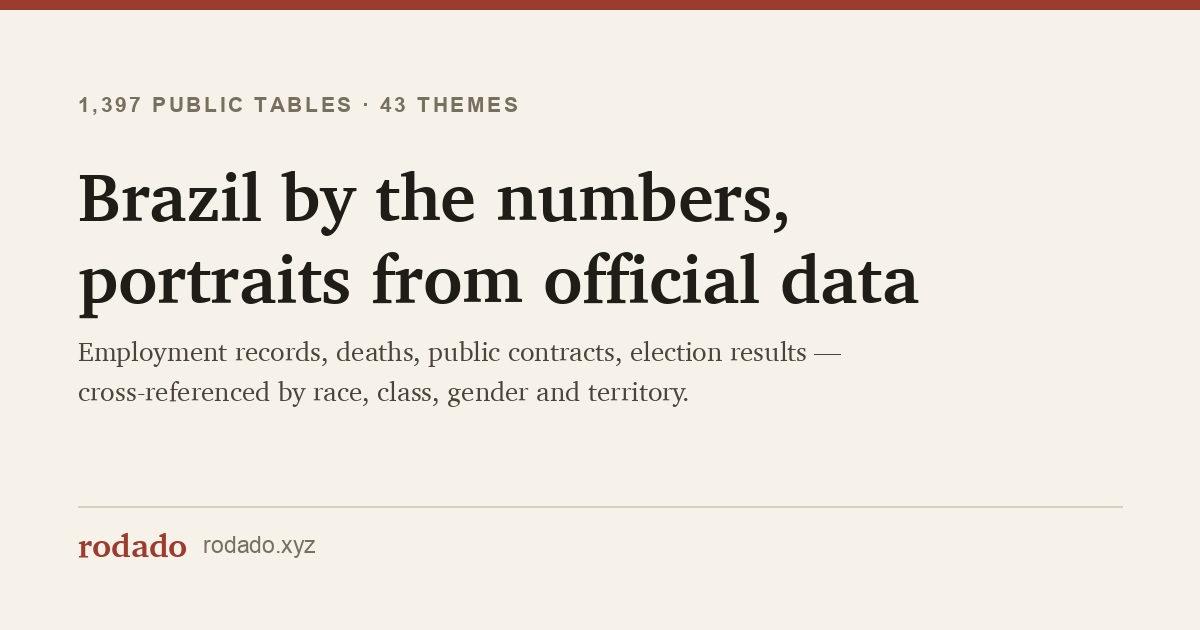
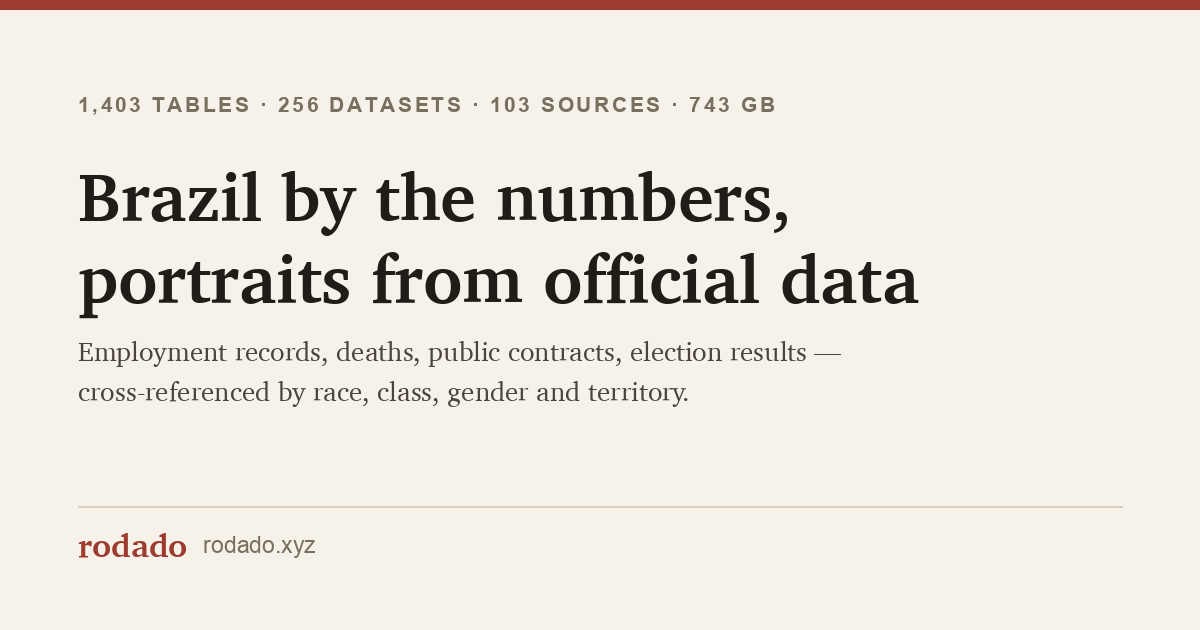
docs: contagens do espelho para 1.403 tabelas, 256 datasets, 103 fontes e 743 GB

Changed region(s): [[0.0617, 0.1508, 0.6475, 0.181]]

diff --git a/pages/index.html b/pages/index.html
@@ -4,7 +4,7 @@
 <meta charset="utf-8">
 <meta name="viewport" content="width=device-width, initial-scale=1">
 <title>rodado — Brasil em números, retratos dos dados oficiais</title>
-<meta name="description" content="1.397 tabelas de dados oficiais brasileiros cruzadas em 43 investigações sobre desigualdade, poder, economia, saúde e violência — o retrato que o Estado já tem de si mesmo.">
+<meta name="description" content="1.403 tabelas de dados oficiais brasileiros cruzadas em 43 investigações sobre desigualdade, poder, economia, saúde e violência — o retrato que o Estado já tem de si mesmo.">
 <!-- seo:start (gerado por scripts/gera_seo.py — não editar à mão) -->
 <link rel="canonical" href="https://rodado.xyz/">
 <link rel="alternate" hreflang="pt-br" href="https://rodado.xyz/">
@@ -15,14 +15,14 @@
 <meta property="og:locale" content="pt_BR">
 <meta property="og:url" content="https://rodado.xyz/">
 <meta property="og:title" content="rodado — Brasil em números, retratos dos dados oficiais">
-<meta property="og:description" content="1.397 tabelas de dados oficiais brasileiros cruzadas em 43 investigações sobre desigualdade, poder, economia, saúde e violência — o retrato que o Estado já tem de si mesmo.">
+<meta property="og:description" content="1.403 tabelas de dados oficiais brasileiros cruzadas em 43 investigações sobre desigualdade, poder, economia, saúde e violência — o retrato que o Estado já tem de si mesmo.">
 <meta property="og:image" content="https://rodado.xyz/assets/og.png">
 <meta property="og:image:width" content="1200">
 <meta property="og:image:height" content="630">
 <meta property="og:image:alt" content="rodado — Brasil em números, retratos dos dados oficiais">
 <meta name="twitter:card" content="summary_large_image">
 <meta name="twitter:title" content="rodado — Brasil em números, retratos dos dados oficiais">
-<meta name="twitter:description" content="1.397 tabelas de dados oficiais brasileiros cruzadas em 43 investigações sobre desigualdade, poder, economia, saúde e violência — o retrato que o Estado já tem de si mesmo.">
+<meta name="twitter:description" content="1.403 tabelas de dados oficiais brasileiros cruzadas em 43 investigações sobre desigualdade, poder, economia, saúde e violência — o retrato que o Estado já tem de si mesmo.">
 <meta name="twitter:image" content="https://rodado.xyz/assets/og.png">
 <link rel="icon" href="assets/favicon.ico" sizes="any">
 <link rel="icon" type="image/png" sizes="32x32" href="assets/favicon-32.png">
@@ -31,7 +31,7 @@
 <link rel="manifest" href="https://rodado.xyz/site.webmanifest">
 <meta name="theme-color" content="#f9f8f5">
 <meta name="robots" content="index,follow,max-image-preview:large,max-snippet:-1">
-<script type="application/ld+json">{"@context":"https://schema.org","@type":"WebSite","name":"rodado","url":"https://rodado.xyz/","description":"1.397 tabelas de dados oficiais brasileiros cruzadas em 43 investigações sobre desigualdade, poder, economia, saúde e violência — o retrato que o Estado já tem de si mesmo.","inLanguage":"pt-BR"}</script>
+<script type="application/ld+json">{"@context":"https://schema.org","@type":"WebSite","name":"rodado","url":"https://rodado.xyz/","description":"1.403 tabelas de dados oficiais brasileiros cruzadas em 43 investigações sobre desigualdade, poder, economia, saúde e violência — o retrato que o Estado já tem de si mesmo.","inLanguage":"pt-BR"}</script>
 <!-- seo:end -->
 <!-- head:start (gerado por scripts/gera_seo.py — não editar à mão) -->
 <link rel="preload" href="assets/fonts/public-sans-latin-400-800.woff2" as="font" type="font/woff2" crossorigin>
@@ -67,7 +67,7 @@
 </nav>
 
 <main class="wide">
-  <p class="eyebrow">1.397 tabelas públicas · 43 temas</p>
+  <p class="eyebrow">1.403 tabelas · 256 datasets · 103 fontes · 743 GB</p>
   <h1>Brasil em números, retratos dos dados oficiais</h1>
   <p class="dek">Vínculos de emprego, óbitos, contratos públicos, resultados eleitorais, matrículas escolares — os registros que o próprio Estado brasileiro produz para administrar a população, cruzados por raça, classe, gênero e território.</p>
 
@@ -83,7 +83,7 @@
     <a class="teaser-tile" href="https://xn--2dk.xyz/"><img src="assets/teaser/perfil-religioso.webp" alt="Mapa do Brasil com municípios coloridos do amarelo (predominância católica) ao roxo (predominância evangélica)" width="640" height="480" loading="lazy"><span>O perfil religioso de cada município</span></a>
   </div>
 
-  <p class="lede">Este projeto reúne 1.397 tabelas públicas — vindas de instituições oficiais brasileiras (RAIS, SIM, TSE, CGU, IBGE, INEP, CNES e outras), somadas a mais de 80 fontes raspadas de forma independente (sanções nacionais e internacionais, SICAF, SINAN Violência, reclamações de consumidor, entre outras) — e as lê a partir de perguntas investigativas, não de uma vitrine técnica: o que esses registros, cruzados, revelam sobre desigualdade, poder, economia, saúde e violência no Brasil? Não é pesquisa de opinião nem modelo teórico. É o retrato que o Estado já tem de si mesmo, através de dados administrativos que raramente são lidos lado a lado. As tabelas (mais de 897 GB em Parquet+zstd) são consultadas sob demanda via DuckDB — sem importar nada localmente — permitindo cruzar bases de ministérios, tribunais, institutos e fontes independentes numa única consulta.</p>
+  <p class="lede">Este projeto reúne 1.403 tabelas públicas — vindas de instituições oficiais brasileiras (RAIS, SIM, TSE, CGU, IBGE, INEP, CNES e outras), somadas a 102 fontes raspadas de forma independente (sanções nacionais e internacionais, SICAF, SINAN Violência, reclamações de consumidor, entre outras) — e as lê a partir de perguntas investigativas, não de uma vitrine técnica: o que esses registros, cruzados, revelam sobre desigualdade, poder, economia, saúde e violência no Brasil? Não é pesquisa de opinião nem modelo teórico. É o retrato que o Estado já tem de si mesmo, através de dados administrativos que raramente são lidos lado a lado. As tabelas (743 GB em Parquet+zstd) são consultadas sob demanda via DuckDB — sem importar nada localmente — permitindo cruzar bases de ministérios, tribunais, institutos e fontes independentes numa única consulta.</p>
 
   <p>Cada um dos 43 temas abaixo combina uma narrativa investigativa com as tabelas de evidência por trás dela, para que qualquer afirmação possa ser conferida, não só lida. Os achados são apresentados de forma direta — no tom do jornalismo de dados, não da cautela acadêmica — mas toda tabela vem da fonte oficial citada, sem alteração de valores.</p>
 

diff --git a/pages/technical.html b/pages/technical.html
@@ -89,7 +89,7 @@
   <p>Each capability below is backed by a concrete, deployed piece of this project — not a claim, a running system.</p>
   <div class="grid-cards">
     <div class="card"><div class="label">End-to-end delivery</div><p>Scraping and mirroring pipelines + semantic layer + 17-tool MCP interface, in daily use as a single-engineer project.</p></div>
-    <div class="card"><div class="label">Data engineering</div><p>1,397 tables across 254 datasets (44.02 billion rows, ~1.0 TB) — 901 mirrored from Base dos Dados, 496 scraped independently — with a canonical join-key graph and partition-aware query patterns.</p></div>
+    <div class="card"><div class="label">Data engineering</div><p>1,403 tables · 256 datasets · 103 sources · 743 GB (36.33 billion rows) — 904 mirrored from Base dos Dados, 499 scraped independently — with a canonical join-key graph and partition-aware query patterns.</p></div>
     <div class="card"><div class="label">Ontology design</div><p>8 business object types (Municipality, Company, Person, Contract…) with typed relationships, 60 documented join concepts and 21 catalogued false friends.</p></div>
     <div class="card"><div class="label">Application development</div><p><code>mcp_server.py</code> — 17 MCP tools over stdio for schema browsing, join resolution, named metrics and read-only SQL.</p></div>
     <div class="card"><div class="label">AI / ML enablement</div><p>Table discovery by a compact dataset catalog placed in the model's prompt — 88% of questions land on the right dataset, against ~53% for the embedding search it replaced.</p></div>
@@ -242,14 +242,14 @@ ORDER BY contratos_federais_2023_2025 DESC</pre>
   <div class="grid-cards">
     <div class="card"><div class="label">Users</div><p>Analysts · policy teams · researchers · journalists</p></div>
     <div class="card"><div class="label">Agent</div><p>Claude Desktop / Claude Code · <code>mcp/mcp_server.py</code> over stdio · 17 tools: schema browsing, join resolution, named metrics, read-only SQL, per-theme lookups</p></div>
-    <div class="card"><div class="label">Semantic</div><p><code>rodado-schema.json</code> (1,397 tables) · <code>bridges.yaml</code> + <code>join_keys.md</code> · 12 named metrics · 3 rollup hierarchies · 47 domain overviews</p></div>
+    <div class="card"><div class="label">Semantic</div><p><code>rodado-schema.json</code> (1,403 tables) · <code>bridges.yaml</code> + <code>join_keys.md</code> · 12 named metrics · 3 rollup hierarchies · 47 domain overviews</p></div>
     <div class="card"><div class="label">Query</div><p><code>ssh beelink '~/bin/duckdb -readonly'</code> · no persistent server process · statement guard before every call</p></div>
-    <div class="card"><div class="label">Storage</div><p>Local disk · Parquet + zstd · 1,397 tables · ~1.0 TB · DuckDB reads the files directly, no import</p></div>
+    <div class="card"><div class="label">Storage</div><p>Local disk · Parquet + zstd · 1,403 tables · 743 GB · DuckDB reads the files directly, no import</p></div>
     <div class="card"><div class="label">Catalog</div><p><code>_rodado_metadata</code> view: rows, source, status and provenance for every table, rebuilt after each sync</p></div>
   </div>
 
   <h2>Table selection</h2>
-  <p>With 1,397 tables, the hard step is picking the handful worth reading before any SQL is written — the step that keeps a large schema from producing hallucinated joins. The local harness puts the whole dataset catalog in the prompt (~2k tokens, cached after the first question) and lands on the right dataset 88% of the time. An embedding index over ~8 synthetic questions per table scored ~53% on the same measure and was removed.</p>
+  <p>With 1,403 tables, the hard step is picking the handful worth reading before any SQL is written — the step that keeps a large schema from producing hallucinated joins. The local harness puts the whole dataset catalog in the prompt (~2k tokens, cached after the first question) and lands on the right dataset 88% of the time. An embedding index over ~8 synthetic questions per table scored ~53% on the same measure and was removed.</p>
   <div class="pills">
     <span class="pill">catalog in prompt</span>
     <span class="pill">88% dataset hit rate</span>
@@ -263,7 +263,7 @@ ORDER BY contratos_federais_2023_2025 DESC</pre>
       <thead><tr><th>Foundry layer</th><th>Foundry primitive</th><th>rodado counterpart</th></tr></thead>
       <tbody>
         <tr><td>Data integration</td><td>Data Connection sources &amp; syncs</td><td>Base dos Dados mirror sync + independent scrapers (309 tables), resumable and checkpointed</td></tr>
-        <tr><td></td><td>Datasets</td><td>One Parquet+zstd directory per table, 1,397 tables. No dataset versions or transactions</td></tr>
+        <tr><td></td><td>Datasets</td><td>One Parquet+zstd directory per table, 1,403 tables. No dataset versions or transactions</td></tr>
         <tr><td></td><td>Data Lineage &amp; metadata</td><td><code>_rodado_metadata</code> catalog: rows, size, source URL, scrape date, status, provenance</td></tr>
         <tr><td></td><td>Pipeline schedules</td><td>An ordered regeneration chain, run by hand after each sync</td></tr>
         <tr><td>Ontology</td><td>Object types</td><td>61 hub concepts in <code>bridges.yaml</code>: municipality, state, company, person, station… Objects stay virtual (rows, not an indexed object store)</td></tr>
@@ -330,7 +330,7 @@ ORDER BY contratos_federais_2023_2025 DESC</pre>
 <footer>
   <div class="footer-inner">
     <a href="/">Índice temático</a>
-    <span>1,397 tables · ~1.0 TB · DuckDB + Parquet</span>
+    <span>1,403 tables · 743 GB · DuckDB + Parquet</span>
     <a class="footer-by" href="https://extrapolo.com">by extrapolo.com</a>
   </div>
 </footer>

diff --git a/pages/mcp.html b/pages/mcp.html
@@ -3,7 +3,7 @@
 <meta charset="utf-8">
 <meta name="viewport" content="width=device-width, initial-scale=1">
 <title>rodado — catálogo de dados públicos brasileiros (servidor MCP)</title>
-<meta name="description" content="1.397 tabelas públicas brasileiras em 254 datasets — RAIS, SIM, TSE, CGU, IBGE, INEP e outras — organizadas em 43 domínios temáticos e expostas como ferramentas de um servidor MCP real.">
+<meta name="description" content="1.403 tabelas públicas brasileiras em 256 datasets — RAIS, SIM, TSE, CGU, IBGE, INEP e outras — organizadas em 43 domínios temáticos e expostas como ferramentas de um servidor MCP real.">
 <!-- seo:start (gerado por scripts/gera_seo.py — não editar à mão) -->
 <link rel="canonical" href="https://rodado.xyz/mcp.html">
 <link rel="alternate" hreflang="pt-br" href="https://rodado.xyz/mcp.html">
@@ -14,14 +14,14 @@
 <meta property="og:locale" content="pt_BR">
 <meta property="og:url" content="https://rodado.xyz/mcp.html">
 <meta property="og:title" content="rodado — catálogo de dados públicos brasileiros (servidor MCP)">
-<meta property="og:description" content="1.397 tabelas públicas brasileiras em 254 datasets — RAIS, SIM, TSE, CGU, IBGE, INEP e outras — organizadas em 43 domínios temáticos e expostas como ferramentas de um servidor MCP real.">
+<meta property="og:description" content="1.403 tabelas públicas brasileiras em 256 datasets — RAIS, SIM, TSE, CGU, IBGE, INEP e outras — organizadas em 43 domínios temáticos e expostas como ferramentas de um servidor MCP real.">
 <meta property="og:image" content="https://rodado.xyz/assets/og.png">
 <meta property="og:image:width" content="1200">
 <meta property="og:image:height" content="630">
 <meta property="og:image:alt" content="rodado — catálogo de dados públicos brasileiros (servidor MCP)">
 <meta name="twitter:card" content="summary_large_image">
 <meta name="twitter:title" content="rodado — catálogo de dados públicos brasileiros (servidor MCP)">
-<meta name="twitter:description" content="1.397 tabelas públicas brasileiras em 254 datasets — RAIS, SIM, TSE, CGU, IBGE, INEP e outras — organizadas em 43 domínios temáticos e expostas como ferramentas de um servidor MCP real.">
+<meta name="twitter:description" content="1.403 tabelas públicas brasileiras em 256 datasets — RAIS, SIM, TSE, CGU, IBGE, INEP e outras — organizadas em 43 domínios temáticos e expostas como ferramentas de um servidor MCP real.">
 <meta name="twitter:image" content="https://rodado.xyz/assets/og.png">
 <link rel="icon" href="assets/favicon.ico" sizes="any">
 <link rel="icon" type="image/png" sizes="32x32" href="assets/favicon-32.png">
@@ -76,7 +76,7 @@
         <span class="brand-tag">Catálogo de Dados · Brasil</span>
       </div>
       <h1 class="page-title">Catálogo de dados públicos brasileiros, exposto como servidor MCP</h1>
-      <p class="lead">Um índice temático sobre 1.397 tabelas públicas brasileiras — RAIS, SIM, TSE, CGU, IBGE, INEP e outras — consultáveis diretamente com <strong>DuckDB</strong>. Cada card abaixo é um tema de pesquisa; cada linha dentro dele é uma tabela consultável.</p>
+      <p class="lead">Um índice temático sobre 1.403 tabelas públicas brasileiras — RAIS, SIM, TSE, CGU, IBGE, INEP e outras — consultáveis diretamente com <strong>DuckDB</strong>. Cada card abaixo é um tema de pesquisa; cada linha dentro dele é uma tabela consultável.</p>
       <p class="lead-note">O catálogo inclui um conjunto crescente de fontes coletadas independentemente — sanções internacionais (UE, ONU, OFAC, OpenSanctions), ICIJ Offshore Leaks, SICAF, SINAN Violência, Consumidor.gov.br, dívida ativa da PGFN e Tribunais de Contas estaduais — ver o catálogo completo dessas fontes.</p>
       <div class="header-bottom">
         <div class="stats">
@@ -85,8 +85,8 @@
             <div class="stat-label">temas</div>
           </div>
           <div>
-            <div class="stat-num">1.397</div>
-            <div class="stat-label">tabelas em 254 datasets <span class="muted">· <a href="#datasets">todos listados abaixo</a></span></div>
+            <div class="stat-num">1.403</div>
+            <div class="stat-label">tabelas em 256 datasets <span class="muted">· <a href="#datasets">todos listados abaixo</a></span></div>
           </div>
           <div>
             <div class="stat-num">Restrito</div>
@@ -111,7 +111,7 @@
       <p class="tools-desc">Oito ferramentas MCP expõem o catálogo e o espelho DuckDB. Nomes de tabela do catálogo funcionam direto no SQL: quando não há view no banco, a consulta é reescrita automaticamente para os arquivos Parquet locais.</p>
       <div class="tools-grid">
         <ul class="tools-list">
-          <li><code>list_datasets()</code> — os 254 datasets com contagem de tabelas</li>
+          <li><code>list_datasets()</code> — os 256 datasets com contagem de tabelas</li>
           <li><code>list_tables(dataset)</code> — tabelas de um dataset, com sugestões de nome</li>
           <li><code>describe_table(tabela)</code> — colunas, tipos, descrições e caminho Parquet</li>
           <li><code>get_join_keys(coluna?)</code> — chaves de junção documentadas entre datasets</li>

diff --git a/pages/mcp-en.html b/pages/mcp-en.html
@@ -3,7 +3,7 @@
 <meta charset="utf-8">
 <meta name="viewport" content="width=device-width, initial-scale=1">
 <title>rodado — MCP server for Brazilian public data</title>
-<meta name="description" content="1,397 Brazilian public tables across 254 datasets (RAIS, SIM, TSE, CGU, IBGE, INEP...) organized into 43 thematic domains and exposed as tools on a real MCP server.">
+<meta name="description" content="1,403 Brazilian public tables across 256 datasets (RAIS, SIM, TSE, CGU, IBGE, INEP...) organized into 43 thematic domains and exposed as tools on a real MCP server.">
 <!-- seo:start (gerado por scripts/gera_seo.py — não editar à mão) -->
 <link rel="canonical" href="https://rodado.xyz/mcp-en.html">
 <link rel="alternate" hreflang="en" href="https://rodado.xyz/mcp-en.html">
@@ -14,14 +14,14 @@
 <meta property="og:locale" content="en_US">
 <meta property="og:url" content="https://rodado.xyz/mcp-en.html">
 <meta property="og:title" content="rodado — MCP server for Brazilian public data">
-<meta property="og:description" content="1,397 Brazilian public tables across 254 datasets (RAIS, SIM, TSE, CGU, IBGE, INEP...) organized into 43 thematic domains and exposed as tools on a real MCP server.">
+<meta property="og:description" content="1,403 Brazilian public tables across 256 datasets (RAIS, SIM, TSE, CGU, IBGE, INEP...) organized into 43 thematic domains and exposed as tools on a real MCP server.">
 <meta property="og:image" content="https://rodado.xyz/assets/og-en.png">
 <meta property="og:image:width" content="1200">
 <meta property="og:image:height" content="630">
 <meta property="og:image:alt" content="rodado — MCP server for Brazilian public data">
 <meta name="twitter:card" content="summary_large_image">
 <meta name="twitter:title" content="rodado — MCP server for Brazilian public data">
-<meta name="twitter:description" content="1,397 Brazilian public tables across 254 datasets (RAIS, SIM, TSE, CGU, IBGE, INEP...) organized into 43 thematic domains and exposed as tools on a real MCP server.">
+<meta name="twitter:description" content="1,403 Brazilian public tables across 256 datasets (RAIS, SIM, TSE, CGU, IBGE, INEP...) organized into 43 thematic domains and exposed as tools on a real MCP server.">
 <meta name="twitter:image" content="https://rodado.xyz/assets/og-en.png">
 <link rel="icon" href="assets/favicon.ico" sizes="any">
 <link rel="icon" type="image/png" sizes="32x32" href="assets/favicon-32.png">
@@ -76,7 +76,7 @@
         <span class="brand-tag">Data Catalog · Brazil</span>
       </div>
       <h1 class="page-title">Brazilian public-data catalog, served as an MCP server</h1>
-      <p class="lead">A thematic index over 1,397 Brazilian public tables — RAIS, SIM, TSE, CGU, IBGE, INEP and more — queryable directly with <strong>DuckDB</strong>. Each card below is a research theme; each row inside it is a table you can query.</p>
+      <p class="lead">A thematic index over 1,403 Brazilian public tables — RAIS, SIM, TSE, CGU, IBGE, INEP and more — queryable directly with <strong>DuckDB</strong>. Each card below is a research theme; each row inside it is a table you can query.</p>
       <p class="lead-note">The catalog includes a growing set of independently-collected sources — international sanctions lists (EU, UN, OFAC, OpenSanctions), ICIJ Offshore Leaks, SICAF, SINAN Violência, Consumidor.gov.br, PGFN active debt and state Courts of Accounts — see the full catalog of these sources.</p>
       <div class="header-bottom">
         <div class="stats">
@@ -85,8 +85,8 @@
             <div class="stat-label">themes</div>
           </div>
           <div>
-            <div class="stat-num">1,397</div>
-            <div class="stat-label">tables across 254 datasets <span class="muted">· <a href="#datasets">all listed below</a></span></div>
+            <div class="stat-num">1,403</div>
+            <div class="stat-label">tables across 256 datasets <span class="muted">· <a href="#datasets">all listed below</a></span></div>
           </div>
           <div>
             <div class="stat-num">Restricted</div>
@@ -111,7 +111,7 @@
       <p class="tools-desc">Eight MCP tools expose the catalog and the DuckDB mirror. Catalog table names work directly in SQL: when a table has no view in the database, the query is automatically rewritten against the local Parquet files.</p>
       <div class="tools-grid">
         <ul class="tools-list">
-          <li><code>list_datasets()</code> — all 254 datasets with table counts</li>
+          <li><code>list_datasets()</code> — all 256 datasets with table counts</li>
           <li><code>list_tables(dataset)</code> — a dataset's tables, with name suggestions</li>
           <li><code>describe_table(table)</code> — columns, types, descriptions and Parquet path</li>
           <li><code>get_join_keys(column?)</code> — documented join keys across datasets</li>

diff --git a/pages/en.html b/pages/en.html
@@ -4,7 +4,7 @@
 <meta charset="utf-8">
 <meta name="viewport" content="width=device-width, initial-scale=1">
 <title>rodado — English summary</title>
-<meta name="description" content="1,397 tables of official Brazilian data, cross-referenced into 43 investigations on inequality, power, economy, health and violence — the portrait the State already has of itself.">
+<meta name="description" content="1,403 tables of official Brazilian data, cross-referenced into 43 investigations on inequality, power, economy, health and violence — the portrait the State already has of itself.">
 <!-- seo:start (gerado por scripts/gera_seo.py — não editar à mão) -->
 <link rel="canonical" href="https://rodado.xyz/en.html">
 <link rel="alternate" hreflang="en" href="https://rodado.xyz/en.html">
@@ -15,14 +15,14 @@
 <meta property="og:locale" content="en_US">
 <meta property="og:url" content="https://rodado.xyz/en.html">
 <meta property="og:title" content="rodado — English summary">
-<meta property="og:description" content="1,397 tables of official Brazilian data, cross-referenced into 43 investigations on inequality, power, economy, health and violence — the portrait the State already has of itself.">
+<meta property="og:description" content="1,403 tables of official Brazilian data, cross-referenced into 43 investigations on inequality, power, economy, health and violence — the portrait the State already has of itself.">
 <meta property="og:image" content="https://rodado.xyz/assets/og-en.png">
 <meta property="og:image:width" content="1200">
 <meta property="og:image:height" content="630">
 <meta property="og:image:alt" content="rodado — English summary">
 <meta name="twitter:card" content="summary_large_image">
 <meta name="twitter:title" content="rodado — English summary">
-<meta name="twitter:description" content="1,397 tables of official Brazilian data, cross-referenced into 43 investigations on inequality, power, economy, health and violence — the portrait the State already has of itself.">
+<meta name="twitter:description" content="1,403 tables of official Brazilian data, cross-referenced into 43 investigations on inequality, power, economy, health and violence — the portrait the State already has of itself.">
 <meta name="twitter:image" content="https://rodado.xyz/assets/og-en.png">
 <link rel="icon" href="assets/favicon.ico" sizes="any">
 <link rel="icon" type="image/png" sizes="32x32" href="assets/favicon-32.png">
@@ -31,7 +31,7 @@
 <link rel="manifest" href="https://rodado.xyz/site.webmanifest">
 <meta name="theme-color" content="#f9f8f5">
 <meta name="robots" content="index,follow,max-image-preview:large,max-snippet:-1">
-<script type="application/ld+json">{"@context":"https://schema.org","@type":"WebSite","name":"rodado","url":"https://rodado.xyz/","description":"1,397 tables of official Brazilian data, cross-referenced into 43 investigations on inequality, power, economy, health and violence — the portrait the State already has of itself.","inLanguage":"en"}</script>
+<script type="application/ld+json">{"@context":"https://schema.org","@type":"WebSite","name":"rodado","url":"https://rodado.xyz/","description":"1,403 tables of official Brazilian data, cross-referenced into 43 investigations on inequality, power, economy, health and violence — the portrait the State already has of itself.","inLanguage":"en"}</script>
 <!-- seo:end -->
 <!-- head:start (gerado por scripts/gera_seo.py — não editar à mão) -->
 <link rel="preload" href="assets/fonts/public-sans-latin-400-800.woff2" as="font" type="font/woff2" crossorigin>
@@ -69,7 +69,7 @@
 <main class="wide">
   <p class="eyebrow">English summary</p>
   <h1>Brazil in numbers, portraits from official data</h1>
-  <p class="dek">This project brings together 1,397 public tables from Brazilian government institutions — part of them mirrored from public data warehouses, the rest scraped independently to cover what those don't — and reads them through an investigative lens rather than a technical one.</p>
+  <p class="dek">This project brings together 1,403 public tables from Brazilian government institutions — part of them mirrored from public data warehouses, the rest scraped independently to cover what those don't — and reads them through an investigative lens rather than a technical one.</p>
 
   <p class="teaser-nota">The same data, seen on the map: eight cartographic explorations at the <a href="https://xn--2dk.xyz/dataviz/">DataViz</a>.</p>
   <div class="teaser">

diff --git a/pages/plataformas/plataformas.js b/pages/plataformas/plataformas.js
@@ -16,7 +16,7 @@
     contagem: ' platforms',
     dek: 'Navigable dashboards, maps and networks: the whole data, not just the ' +
       'slice a finished analysis used. They come from the same local mirror of ' +
-      '1,397 public tables that feeds the <a href="/analises/">analyses</a> ' +
+      '1,403 public tables that feeds the <a href="/analises/">analyses</a> ' +
       '— the difference is that here you explore, instead of reading a ' +
       'conclusion. The platforms themselves are in Portuguese.'
   } : {
@@ -25,7 +25,7 @@
     contagem: ' plataformas',
     dek: 'Painel, mapa e rede navegáveis: o dado inteiro, não só o ' +
       'recorte que uma análise fechada usou. Saem do mesmo espelho local de ' +
-      '1.397 tabelas públicas que alimenta as <a href="/analises/">análises</a> ' +
+      '1.403 tabelas públicas que alimenta as <a href="/analises/">análises</a> ' +
       '— a diferença é que aqui você explora, em vez de ler uma conclusão.'
   };
 

diff --git a/scripts/gera_og_image.py b/scripts/gera_og_image.py
@@ -36,12 +36,12 @@ PAD = 78
 
 VARIANTS = {
     "og.png": {
-        "eyebrow": "1.397 TABELAS PÚBLICAS · 43 TEMAS",
+        "eyebrow": "1.403 TABELAS · 256 DATASETS · 103 FONTES · 743 GB",
         "head": ["Brasil em números,", "retratos dos dados oficiais"],
         "dek": "Vínculos de emprego, óbitos, contratos públicos, resultados\neleitorais — cruzados por raça, classe, gênero e território.",
     },
     "og-en.png": {
-        "eyebrow": "1,397 PUBLIC TABLES · 43 THEMES",
+        "eyebrow": "1,403 TABLES · 256 DATASETS · 103 SOURCES · 743 GB",
         "head": ["Brazil by the numbers,", "portraits from official data"],
         "dek": "Employment records, deaths, public contracts, election results —\ncross-referenced by race, class, gender and territory.",
     },

diff --git a/scripts/gera_seo.py b/scripts/gera_seo.py
@@ -60,12 +60,12 @@ MARCAS_COMUNS = (
 # leitor encontra na página.
 DESCRICOES = {
     "index.html": (
-        "1.397 tabelas de dados oficiais brasileiros cruzadas em 43 investigações "
+        "1.403 tabelas de dados oficiais brasileiros cruzadas em 43 investigações "
         "sobre desigualdade, poder, economia, saúde e violência — o retrato que o "
         "Estado já tem de si mesmo."
     ),
     "en.html": (
-        "1,397 tables of official Brazilian data, cross-referenced into 43 "
+        "1,403 tables of official Brazilian data, cross-referenced into 43 "
         "investigations on inequality, power, economy, health and violence — the "
         "portrait the State already has of itself."
     ),

diff --git a/mcp/mcp_server.py b/mcp/mcp_server.py
@@ -459,7 +459,7 @@ def _inprocess_connection():
     """The one DuckDB instance of this process; callers take a cursor() each.
 
     The embedded engine does not read ~/.duckdbrc, so every limit is set here.
-    No views are created: binding 1.397 views over S3 would list and read the
+    No views are created: binding 1.403 views over S3 would list and read the
     footer of every table at startup. Catalog names reach the parquet through
     run_sql's read_parquet() rewrite instead, bound lazily per query.
     """

diff --git a/scripts/gera_mcp_datasets.py b/scripts/gera_mcp_datasets.py
@@ -3,7 +3,7 @@
 
     python3 scripts/gera_mcp_datasets.py
 
-Os 43 cards da página destacam ~100 tabelas; o espelho tem 254 datasets. Esta
+Os 43 cards da página destacam ~100 tabelas; o espelho tem 256 datasets. Esta
 seção lista todos, um por linha (descrição, tabelas, linhas, fonte), agrupados
 pelo tema do atlas, com link para `rodado.xyz/atlas?db=<dataset>`.
 

diff --git a/README.md b/README.md
@@ -1,6 +1,6 @@
 # rodado — Brasil em números, retratos dos dados oficiais
 
-> 1.397 tabelas públicas brasileiras — de instituições oficiais (RAIS, SIM, TSE, CGU, IBGE, INEP, CNES e outras), somadas a mais de 80 fontes raspadas de forma independente — lidas a partir de perguntas investigativas, não de uma vitrine técnica: o que esses registros, cruzados, revelam sobre desigualdade, poder, economia, saúde e violência no Brasil?
+> 1.403 tabelas públicas brasileiras — de instituições oficiais (RAIS, SIM, TSE, CGU, IBGE, INEP, CNES e outras), somadas a 102 fontes raspadas de forma independente — lidas a partir de perguntas investigativas, não de uma vitrine técnica: o que esses registros, cruzados, revelam sobre desigualdade, poder, economia, saúde e violência no Brasil?
 
 **[rodado.xyz](https://rodado.xyz)** — os 43 temas publicados · [English](https://rodado.xyz/en.html)
 
@@ -16,7 +16,7 @@ Cada tema no site publicado combina uma narrativa em prosa com as tabelas de evi
 
 ## Cobertura de dados
 
-As 1.397 tabelas cobrem 43 domínios temáticos, cada um documentado em [`overview/`](docs/mapa/overview/index.md) e publicado como uma página própria no site. Essas narrativas servem tanto de leitura para o público quanto de contexto para o assistente que consulta o espelho.
+As 1.403 tabelas cobrem 43 domínios temáticos, cada um documentado em [`overview/`](docs/mapa/overview/index.md) e publicado como uma página própria no site. Essas narrativas servem tanto de leitura para o público quanto de contexto para o assistente que consulta o espelho.
 
 | # | Tema |
 |---|------|
@@ -66,7 +66,7 @@ As 1.397 tabelas cobrem 43 domínios temáticos, cada um documentado em [`overvi
 
 ## Sobre os dados
 
-Os dados vêm de instituições públicas brasileiras — ministérios, tribunais, institutos e agências reguladoras — reunidos em um espelho próprio em Parquet, sem precisar importar nada localmente. Mais de 77 dessas fontes são raspadas de forma independente, cobrindo o que não está disponível em nenhum repositório consolidado (sanções nacionais e internacionais, SICAF, SINAN Violência, reclamações de consumidor e mais). No total, 1.397 tabelas (897 GB em Parquet+zstd) são consultadas sob demanda via DuckDB, o que permite cruzar bases de ministérios, tribunais, institutos e fontes independentes numa única consulta SQL.
+Os dados vêm de instituições públicas brasileiras — ministérios, tribunais, institutos e agências reguladoras — reunidos em um espelho próprio em Parquet, sem precisar importar nada localmente. 102 dessas 103 fontes são raspadas de forma independente, cobrindo o que não está disponível em nenhum repositório consolidado (sanções nacionais e internacionais, SICAF, SINAN Violência, reclamações de consumidor e mais). No total, 1.403 tabelas (743 GB em Parquet+zstd) são consultadas sob demanda via DuckDB, o que permite cruzar bases de ministérios, tribunais, institutos e fontes independentes numa única consulta SQL.
 
 ## Como as tabelas se conectam
 

diff --git a/AGENTS.md b/AGENTS.md
@@ -4,7 +4,7 @@ This file provides guidance to coding agents (Claude Code, Pi, and others) when 
 
 ## Project Overview
 
-**baseldosdados** mirrors public Brazilian government tables from [Base dos Dados](https://basedosdados.org) — stored as Parquet+zstd in `~/rodado` on beelink — and extends that mirror with independently-scraped sources that fill the remaining gaps (sanctions lists, SICAF, SINAN microdata, consumer complaints and more — see `tasks/done/datasets_to_scrap_done.md` for the provenance of every scraped source and `tasks/plans/datasets_to_scrap.md` for the queue). 1397 tables (254 datasets, 44,02 bilhões de linhas) as of 2026-10-11 — 901 espelhadas do Base dos Dados, 496 raspadas pelo projeto. A DuckDB view `_rodado_metadata` on beelink tracks each table's rows, source, status, and provenance; `_rodado_datasets` aggregates by dataset. DuckDB queries the data on-demand without local imports.
+**baseldosdados** mirrors public Brazilian government tables from [Base dos Dados](https://basedosdados.org) — stored as Parquet+zstd in `~/rodado` on beelink — and extends that mirror with independently-scraped sources that fill the remaining gaps (sanctions lists, SICAF, SINAN microdata, consumer complaints and more — see `tasks/done/datasets_to_scrap_done.md` for the provenance of every scraped source and `tasks/plans/datasets_to_scrap.md` for the queue). 1.403 tabelas · 256 datasets · 103 fontes · 743 GB (36,33 bilhões de linhas) as of 2026-10-14 — 904 espelhadas do Base dos Dados, 499 raspadas pelo projeto. A DuckDB view `_rodado_metadata` on beelink tracks each table's rows, source, status, and provenance; `_rodado_datasets` aggregates by dataset. DuckDB queries the data on-demand without local imports.
 
 ## Commands
 
@@ -45,7 +45,7 @@ see `db/README.md`. It is a locked-down Python front end, not the DuckDB CLI.
 O harness TS de apuração (pi + Gemma 4 local) vive no branch `harness-gemma`, fora de `main`.
 
 ### `docs/mapa/ERD.md` — the map
-One mermaid `erDiagram` per domain covering all 1397 tables: entity = dataset, attribute = table, edge = join key to a reference hub (solid = direct, dashed = needs normalization). Lists what connects to nothing. `ERD.md` is pt-BR (default), `ERD_EN.md` is the English twin — both generated from the same data by `scripts/gera_erd.py`.
+One mermaid `erDiagram` per domain covering all 1.403 tables: entity = dataset, attribute = table, edge = join key to a reference hub (solid = direct, dashed = needs normalization). Lists what connects to nothing. `ERD.md` is pt-BR (default), `ERD_EN.md` is the English twin — both generated from the same data by `scripts/gera_erd.py`.
 
 ### `docs/context/` — Schema metadata
 Um `README.md` na própria pasta descreve arquivo por arquivo, quem gera cada um e a ordem do regen.
